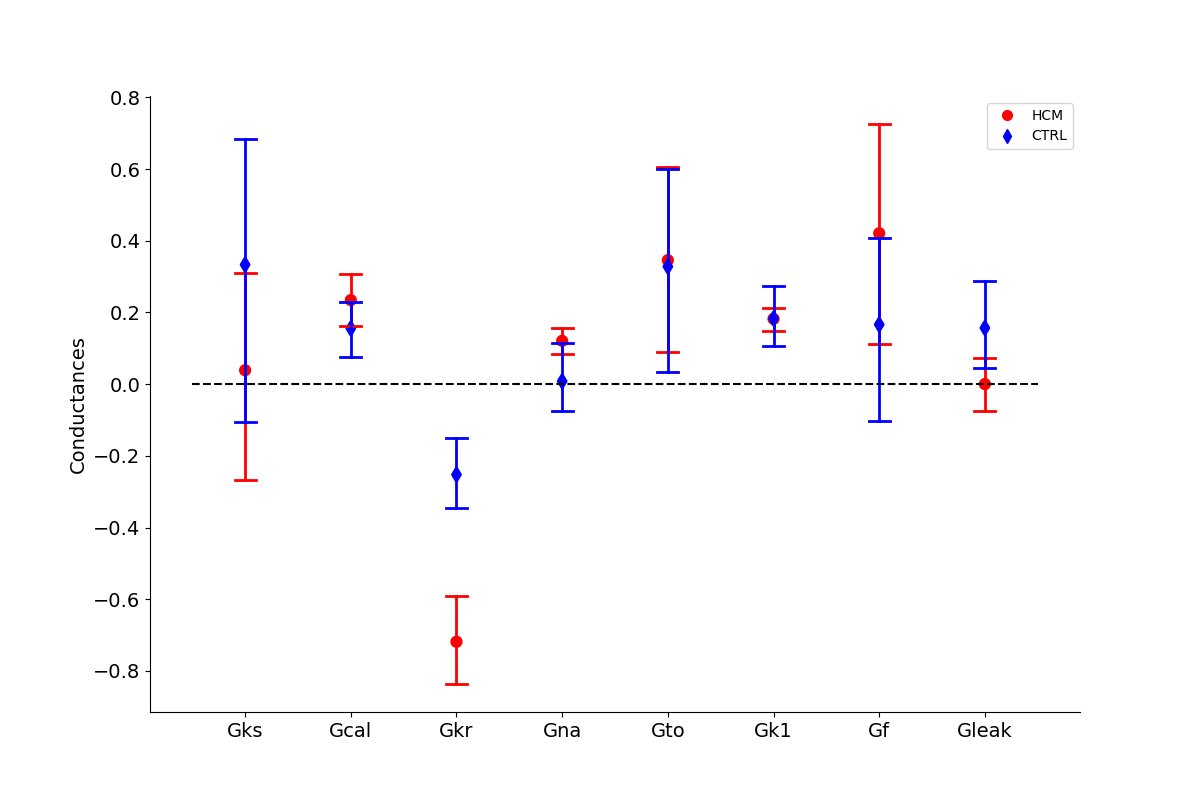
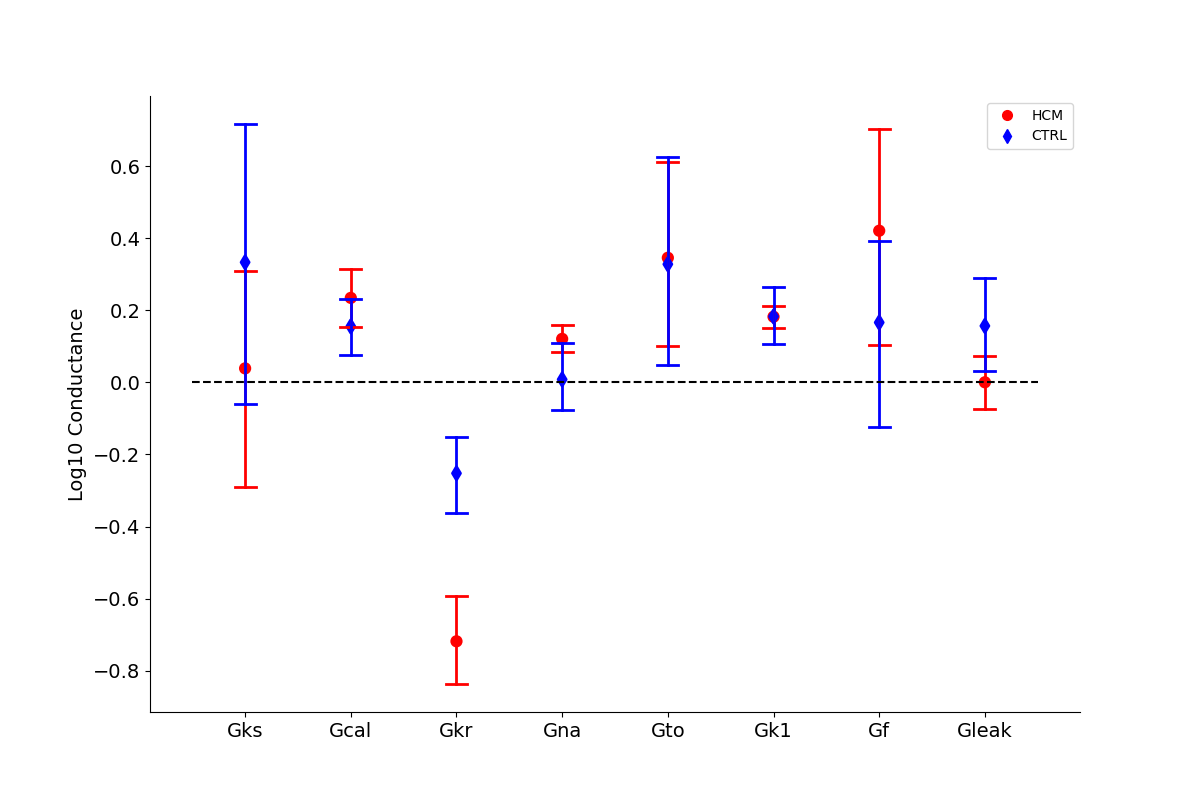
new

diff --git a/bar_plot.py b/bar_plot.py
@@ -58,7 +58,7 @@ plt.legend(handles=[red_circle, blue_diamond])
 axs.hlines(0, -.5, (len(keys)-.5), colors='black', linestyle='--')
 plt.xticks(fontsize=14)
 plt.yticks(fontsize=14)
-axs.set_ylabel('Conductances', fontsize=14)
+axs.set_ylabel('Log10 Conductance', fontsize=14)
 plt.savefig('Bar_conductances.png')
 plt.show()
 
